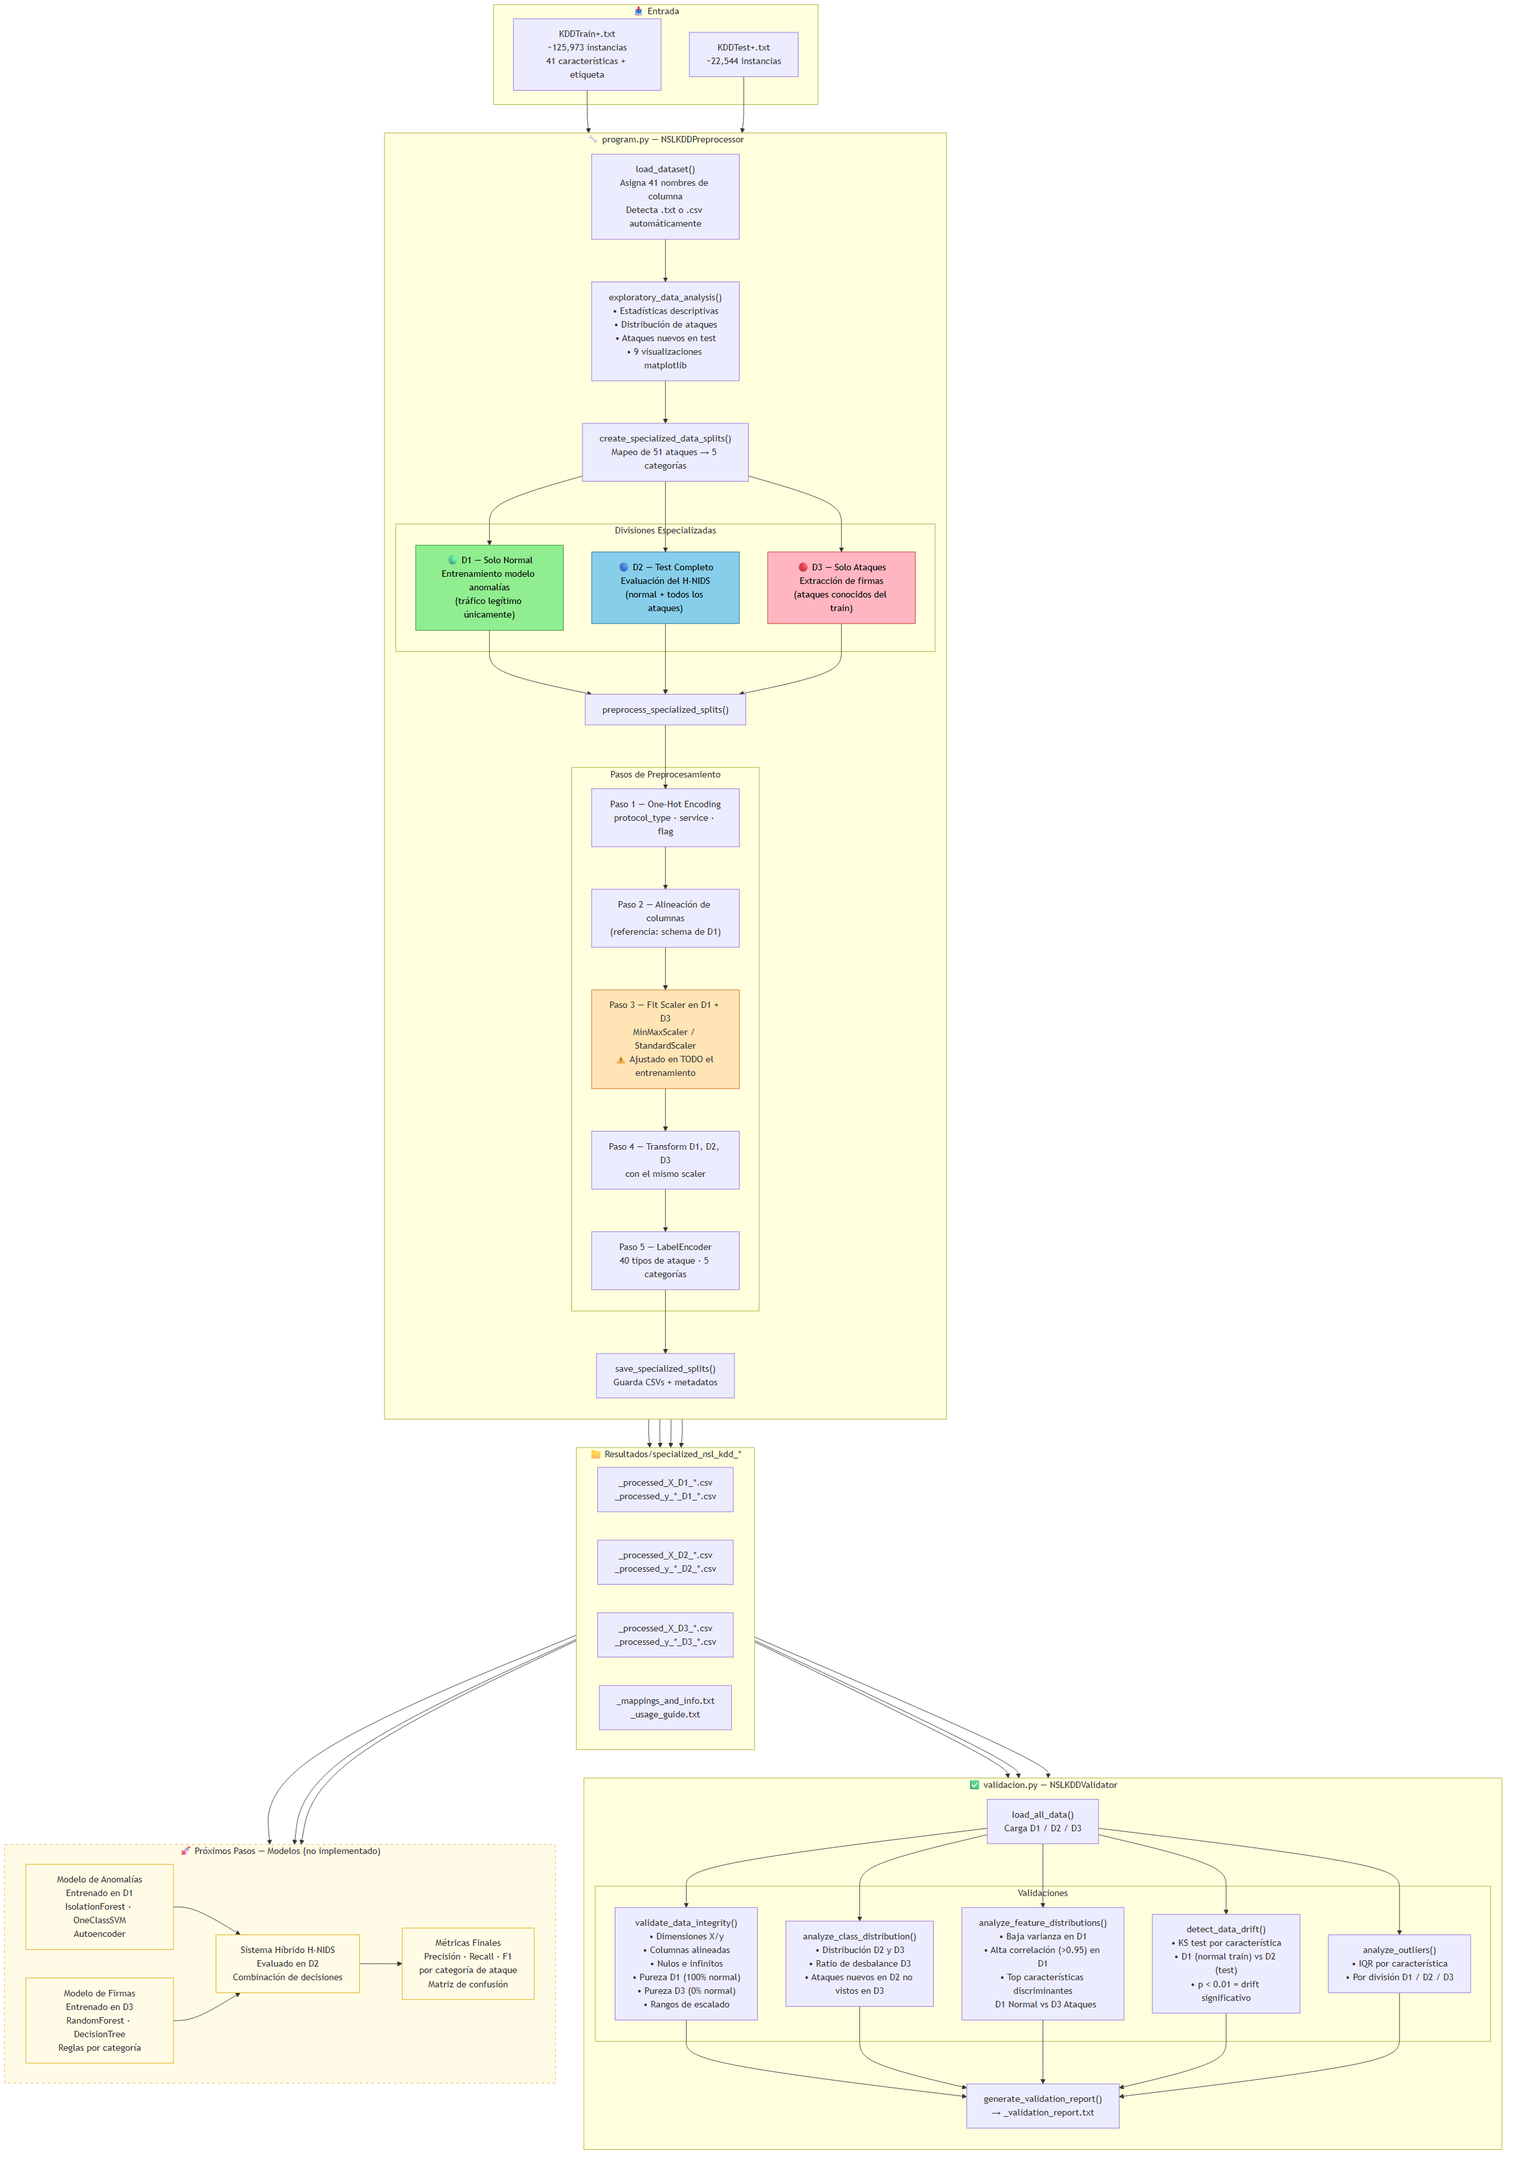
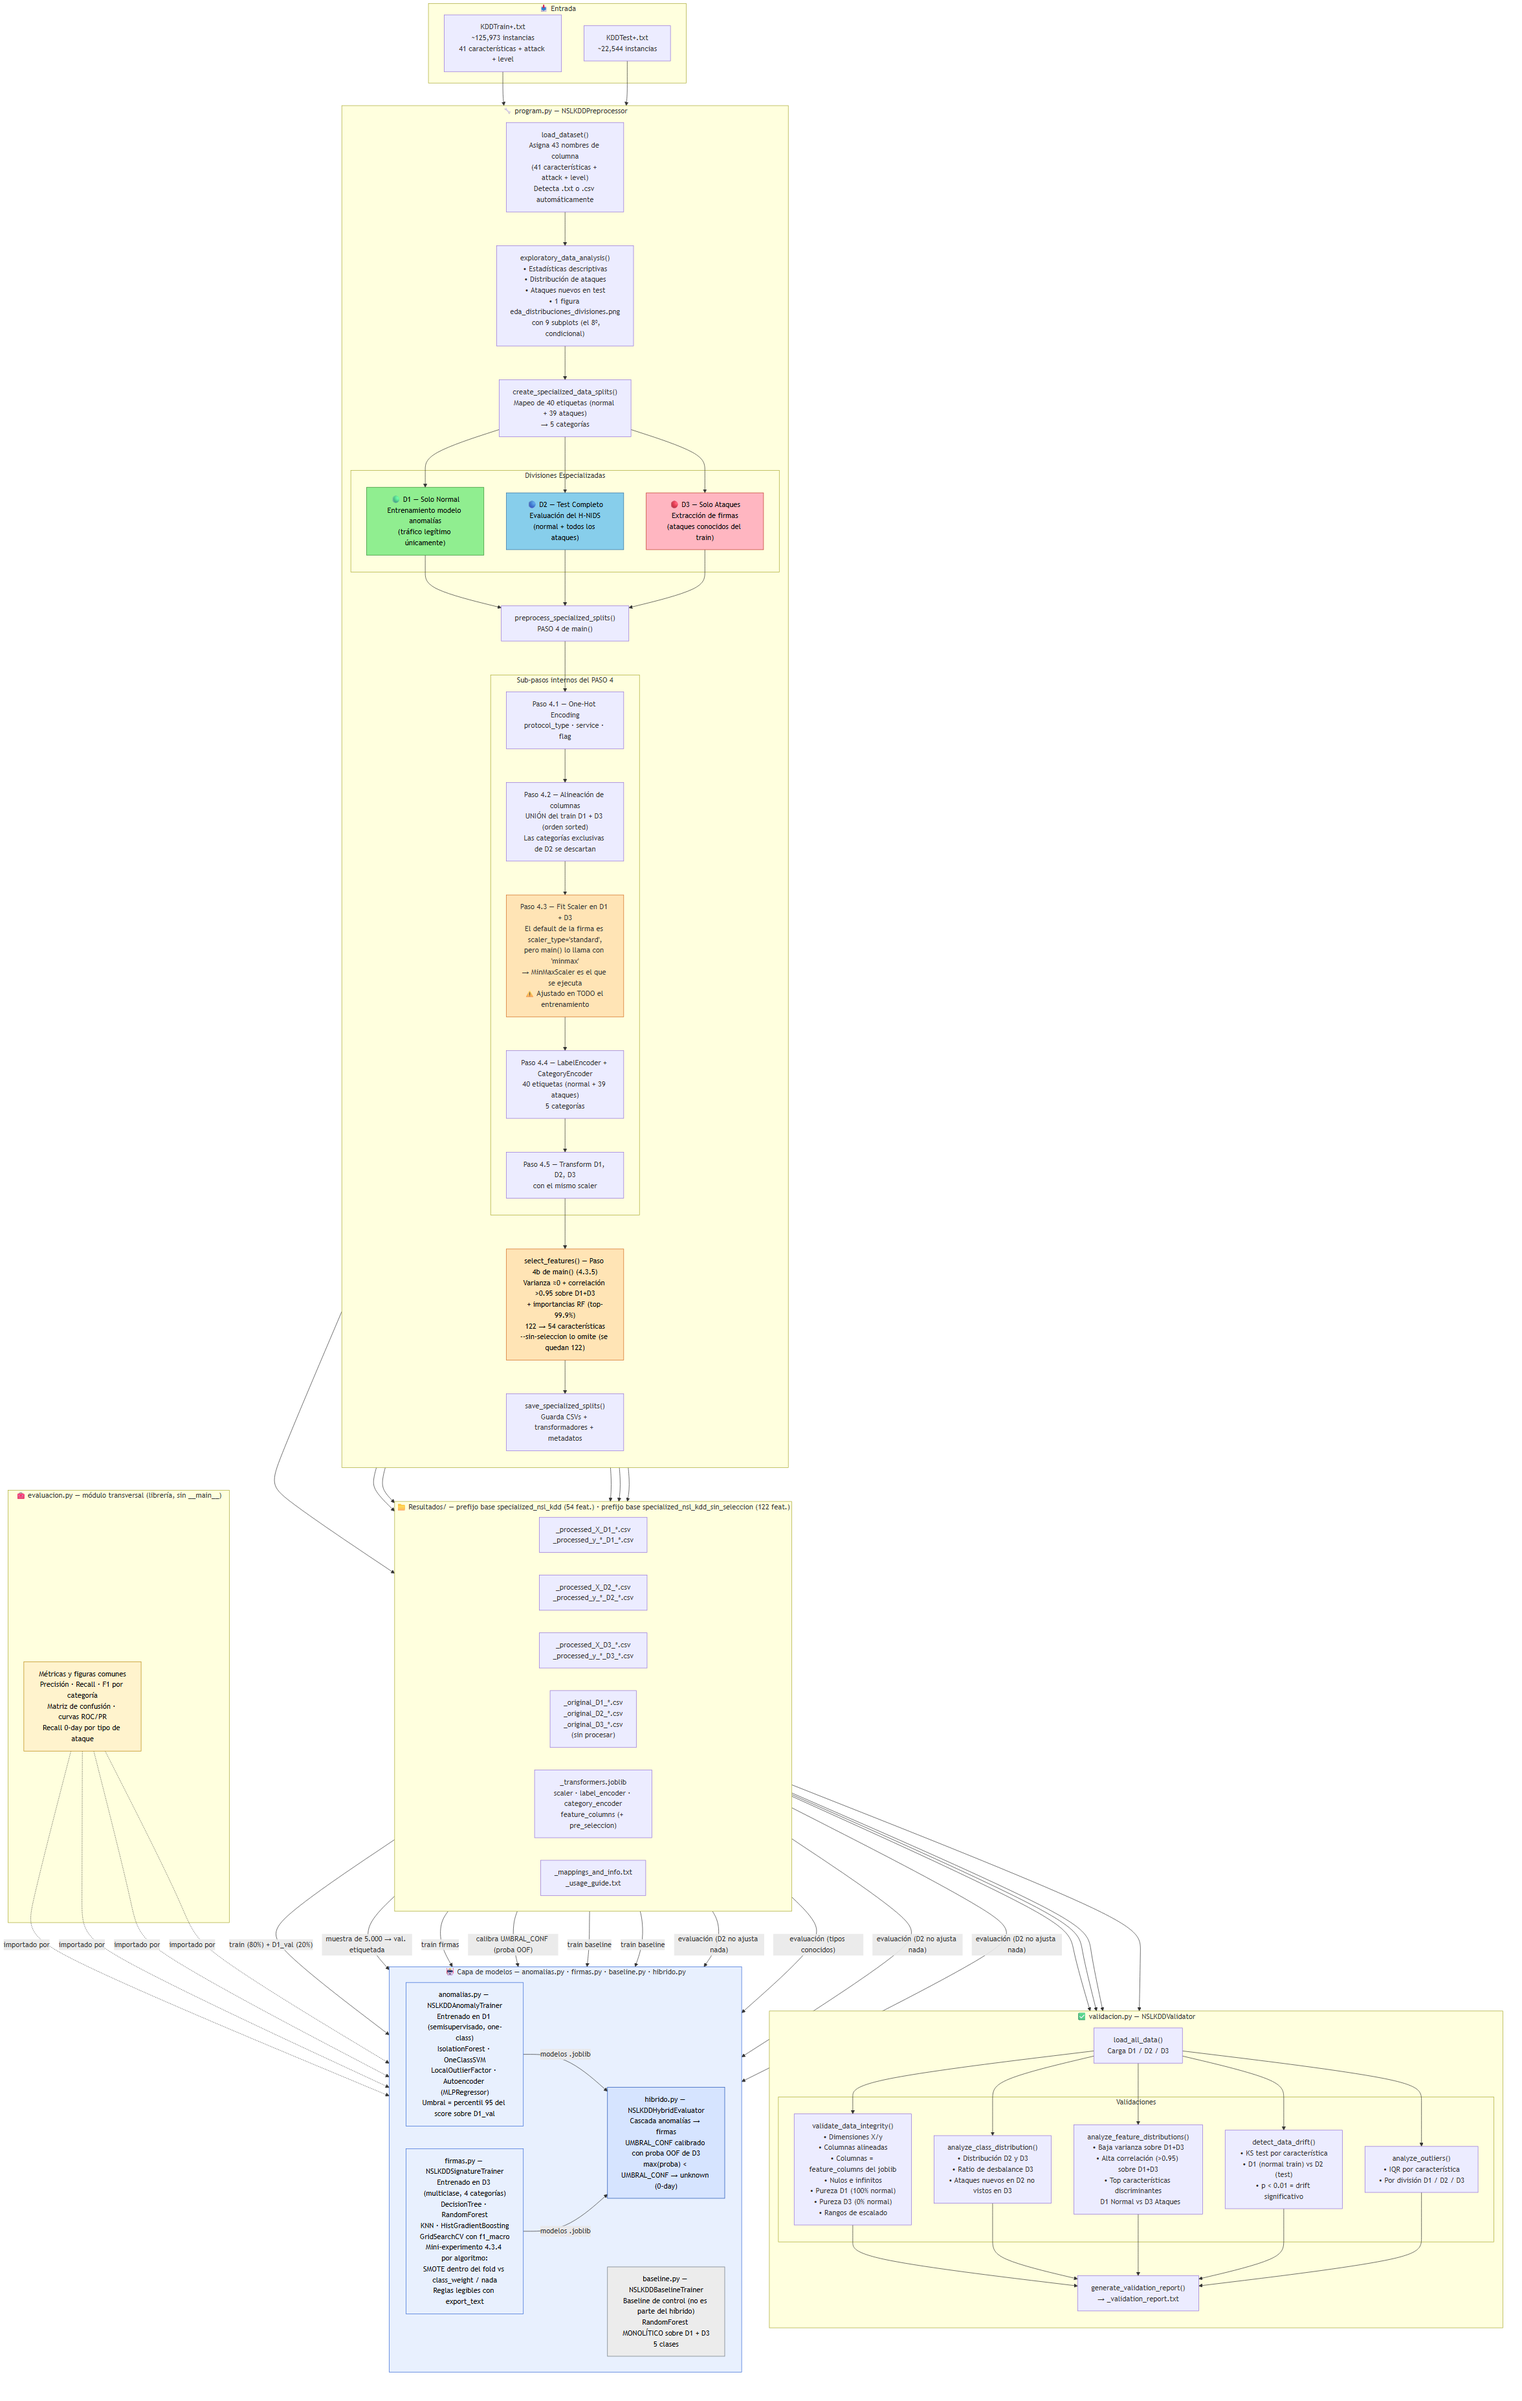
codigo: poner al dia el diagrama 01_pipeline_completo
Los dos rotulos obsoletos de la ficha eran la punta: la capa de modelos
ya no es "no implementado" y el mapeo pasa de "51 ataques" a 40
etiquetas (normal + 39).

La auditoria destapo tres errores de fondo en una figura que se incrusta
en PIPELINE.md y acaba en la memoria: la alineacion one-hot decia
"schema de D1" (el bug cerrado el 2026-07-05, el codigo hace la union
D1+D3), faltaban las cuatro aristas del protocolo anti-leakage
--calibracion OOF de UMBRAL_CONF con D3, D2 no ajusta nada-- y no
aparecia el paso select_features() 122->54 de Q1/C.

15 correcciones, cada una verificada contra fichero:linea. Segunda
auditoria sin rojos ni naranjas. .png y .svg regenerados con
mermaid-cli 11.16.0 -s 3. Incluye diagramas/README.md y, en CLAUDE.md,
la atribucion del balanceo 4.3.4 a firmas.py (por algoritmo).

Changed region(s): [[0.0, 0.0, 0.9932, 0.9991], [0.0, 0.5932, 0.1552, 0.8118]]

diff --git a/features.md b/features.md
@@ -25,13 +25,20 @@ Fechas absolutas `AAAA-MM-DD`. Track: **Código** / **Informe**.
   prensa sectorial. Completar datos de cita y marcar lo que no llegue a nivel 1-2. **Sin
   borrar nada**: las bajas las decide Francisco.
 
-- [ ] **Actualizar el diagrama `01_pipeline_completo.mmd`** · Código · `ml-implementador`
-  Detectado el 2026-08-01 al documentar `Implementacion/` en `CLAUDE.md`. Dos rótulos obsoletos:
-  la capa de modelos es `"🚀 Próximos Pasos — Modelos (no implementado)"` (línea 57) cuando el
-  track Código está completo desde el 2026-07-16, y el nodo `D` dice `"Mapeo de 51 ataques"`
-  (línea 13), cifra ya corregida a **40 etiquetas** — el propio diagrama se contradice en la
-  línea 28, que sí rotula `"40 tipos de ataque · 5 categorías"`. Ahora queda a un clic desde
-  `CLAUDE.md`, así que se ve más. **La acepta o la retira Francisco.**
+- [ ] **`PIPELINE.md` desalineado con su propia figura** · Código · `ml-implementador`
+  Detectado el 2026-08-01 al cerrar el diagrama `01_pipeline_completo.mmd`. El árbol de ficheros
+  generados de `Implementacion/PIPELINE.md:24-46` no lista `_transformers.joblib`,
+  `selected_features.txt` (que sí escribe `program.py:521`) ni la variante de prefijo
+  `_sin_seleccion` (122 características). El texto y el `.svg` que él mismo incrusta dicen cosas
+  distintas sobre los mismos ficheros. **La acepta o la retira Francisco.**
+
+- [ ] **Diagrama y README de agentes describen la arquitectura anterior** · Código · `ml-implementador`
+  Detectado el 2026-08-01. `Implementacion/diagramas/README.md:10` y
+  `Implementacion/diagramas/03_orquestacion_agentes.mmd` documentan el ciclo «orquestador →
+  implementador → auditor/ejecutor → redactor → cronista → `next-steps.md`», cuando hoy la
+  entrada es el `leader` con carriles y tracks (`CLAUDE.md`, «Arquitectura de agentes») y
+  `next-steps.md` está congelado: el roadmap vivo es `features.md`. Regenerar `.png` y `.svg` si
+  se toca el `.mmd`. **La acepta o la retira Francisco.**
 
 - [ ] **Resumen y Abstract** · Informe · `redactor-tfg`
   Se redactan **al final**, cuando el resto de capítulos esté cerrado.
@@ -53,6 +60,7 @@ No se despachan a ningún agente. El `leader` no debe crear tareas para esto.
 
 | Fecha | Track | Tarea | Commit |
 |---|---|---|---|
+| 2026-08-01 | Código | Diagrama `01_pipeline_completo.mmd` al día: 15 correcciones verificadas contra `fichero:línea` — capa de modelos ya no es «no implementado», «51 ataques» → 40 etiquetas, la alineación one-hot es la **unión D1+D3** (y no «schema de D1», que documentaba el bug cerrado el 2026-07-05), alta del paso `select_features()` 122→54 y de las 4 aristas del protocolo anti-leakage (calibración OOF de `UMBRAL_CONF` con D3, D2 no ajusta nada). `.png` y `.svg` regenerados con `mermaid-cli` 11.16.0 `-s 3`; segunda auditoría sin rojos ni naranjas. Incluye `diagramas/README.md` y, en `CLAUDE.md`, la atribución del balanceo 4.3.4 a `firmas.py` (por algoritmo), no a `program.py` | — |
 | 2026-08-01 | Código | `CLAUDE.md` al día tras la absorción de `Implementacion/`: tabla de scripts de 2 a 8 (6 clases reales + `config.py` y `evaluacion.py` como módulos-librería), orden de ejecución y dependencias entre scripts, y en `## Git` que `Implementacion/` ya no lleva `.git` propio y la precedencia de su `.gitignore` anidado | `e3548ca` |
 | 2026-08-01 | Código | Absorción del repo git anidado `Implementacion/`: retirado el gitlink huérfano y versionados los 22 ficheros de código (8 scripts de `app/`, 10 diagramas, `requirements.txt`, `PIPELINE.md`, `readme.md`, `.gitignore`) | `fb920b8` |
 | 2026-08-01 | — | Arquitectura de agentes: `leader`, `researcher`, hook de entrada, skill `cierre`, `features.md`, git y README | `791a698` |

diff --git a/Implementacion/diagramas/README.md b/Implementacion/diagramas/README.md
@@ -5,7 +5,7 @@ para poder verlos y exportarlos a imagen fácilmente (p. ej. para la memoria en 
 
 | Fichero | Contenido |
 |---|---|
-| `01_pipeline_completo.mmd` | Flujo completo: `program.py` (preprocesado + splits D1/D2/D3) → `validacion.py` → modelos futuros |
+| `01_pipeline_completo.mmd` | Flujo completo: `program.py` (preprocesado + splits D1/D2/D3) → `validacion.py` → capa de modelos (`anomalias.py` · `firmas.py` · `baseline.py` · `hibrido.py`), implementada al completo desde el 2026-07-16 |
 | `02_mapeo_ataques.mmd` | Mapeo de los tipos de ataque NSL-KDD → 5 categorías (normal, dos, probe, r2l, u2r) |
 | `03_orquestacion_agentes.mmd` | Ciclo de trabajo multiagente (`.claude/agents/`): orquestador → implementador → auditor/ejecutor → redactor → cronista → `next-steps.md` |
 
@@ -13,7 +13,9 @@ para poder verlos y exportarlos a imagen fácilmente (p. ej. para la memoria en 
 
 - **Online (rápido):** pega el contenido en <https://mermaid.live> → exporta a PNG/SVG.
 - **VS Code:** instala la extensión *Mermaid Preview* (o *Markdown Preview Mermaid Support*) y abre el `.mmd`.
-- **Obsidian:** el Markdown de `PIPELINE.md` ya los renderiza en vista previa.
+- **Obsidian / Markdown:** `PIPELINE.md` **no** contiene el código Mermaid; incrusta el `.svg`
+  renderizado (ver «Flujo de edición»). Para ver el diagrama basta con abrir `PIPELINE.md`, pero
+  lo que se muestra es la imagen ya generada, no un render en vivo del `.mmd`.
 - **CLI (para PNG/SVG reproducibles):**
   ```bash
   # -s 3 = escala x3 (PNG de más resolución para la memoria)

diff --git a/CLAUDE.md b/CLAUDE.md
@@ -106,7 +106,7 @@ Dataset descargable de: https://github.com/Jehuty4949/NSL_KDD
 - [x] Carga y EDA del dataset NSL-KDD
 - [x] Preprocesamiento (One-Hot Encoding, MinMaxScaler/StandardScaler, LabelEncoder)
 - [x] Validación de datos procesados
-- [x] Balanceo (4.3.4, SMOTE vs class_weight) y selección de características (4.3.5, 122→54) en `program.py`
+- [x] Selección de características (4.3.5, 122→54) en `program.py` (`select_features()`); mini-experimento de balanceo (4.3.4, SMOTE vs class_weight/nada, decidido por algoritmo) en `firmas.py`
 - [x] Entrenamiento del modelo de anomalías (`anomalias.py`: IsolationForest, OneClassSVM, LocalOutlierFactor, Autoencoder-MLP; umbral p95)
 - [x] Entrenamiento del modelo de firmas y extracción de reglas desde D3 (`firmas.py`: DecisionTree, RandomForest, KNN, HistGradientBoosting)
 - [x] Baseline RF monolítico de control (`baseline.py`)
